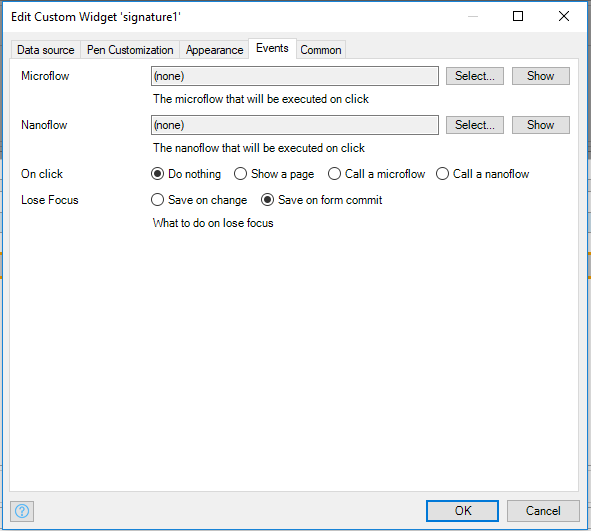
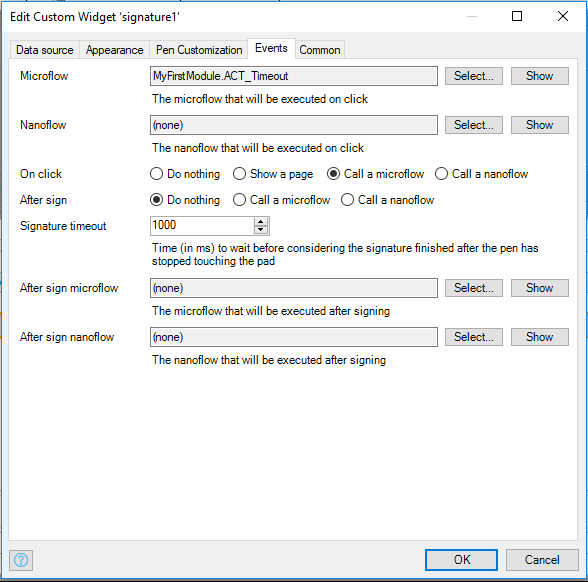
update read me

Changed region(s): [[0.0, 0.0, 1.0, 1.0]]

diff --git a/README.md b/README.md
@@ -17,8 +17,7 @@ Add the widget to a dataView. Connect the data URL property to an unlimited Stri
 ## Usage
 
 ![Data source](/assets/signatureImage.gif)
-- After the signature is drawn, on clicking the save button, then the drawn signature is saved or in case the client wants to draw a better signature then he/she has to click the reset button and then the signature pad will be cleared for another signatured to be drawn. 
-- When the image is saved, a pop up appears which indicates, "image saved"
+- After the signature is drawn, it can either be saved automatically after a timeout of three seconds by selecting the saveOnChange option or saved using the default save button when the option for saveOnFormCommit is selected. 
 
 ### Appearance configuration
 ![Data source](/assets/Home.PNG)
@@ -35,13 +34,15 @@ Add the widget to a dataView. Connect the data URL property to an unlimited Stri
 - Grid border width is too set from this portion
 - width unit has two values that is percentage or pixels
 - height unit has three values, percentage of width pixels and then percentage.
+- saving the drawn signature is automatic. it is either by selecting saveOnChange or save on form commit. 
 
 ![Data source](/assets/Events.PNG)
 Under this section, this is where different actions are undertaken when an event for example an onClick event happens.
 - When a microflow is selected, then on an onClick action is triggered, a microflow will be executed.
 In the same way for the Nanoflow, onClick and it is selected, a nanoflow will be executed.
 - If the client selects one of the four options that are stated under the on click section, then the selected option will be executed else, an error message will show up.
-- On Lose focus the image will be saved either automatically when save on change is selected or it will be saved using the save button when the save on form commit option is selected. 
+-  There is a timeout  to wait to consider when the signature is complete. Past this set time, then the signature will be automatically saved. 
+- After signing either a microflow or a nanoflow is executed depending on the clients' choice. 
 
 
 ### Properties
